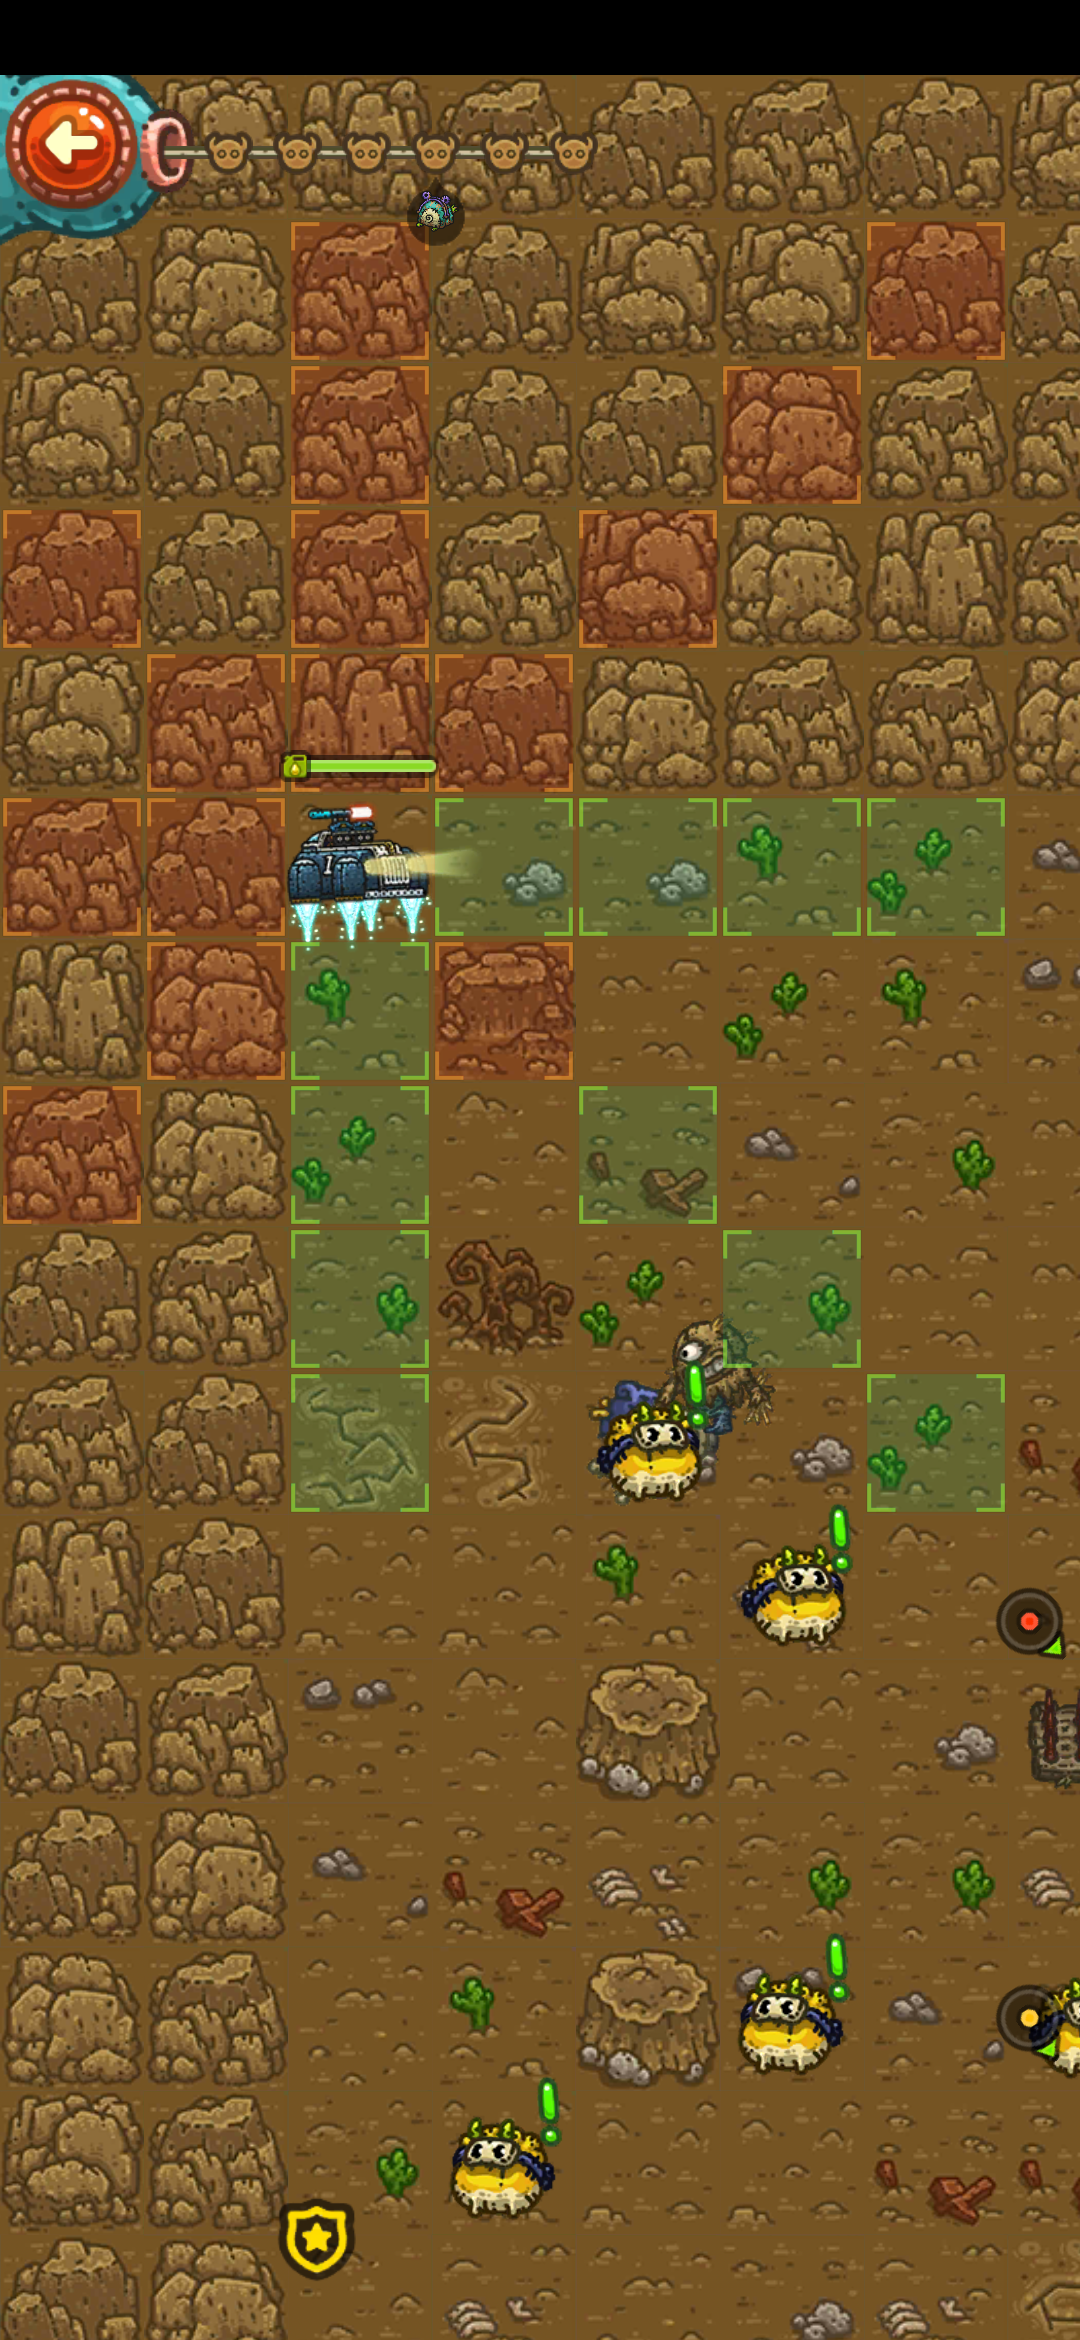
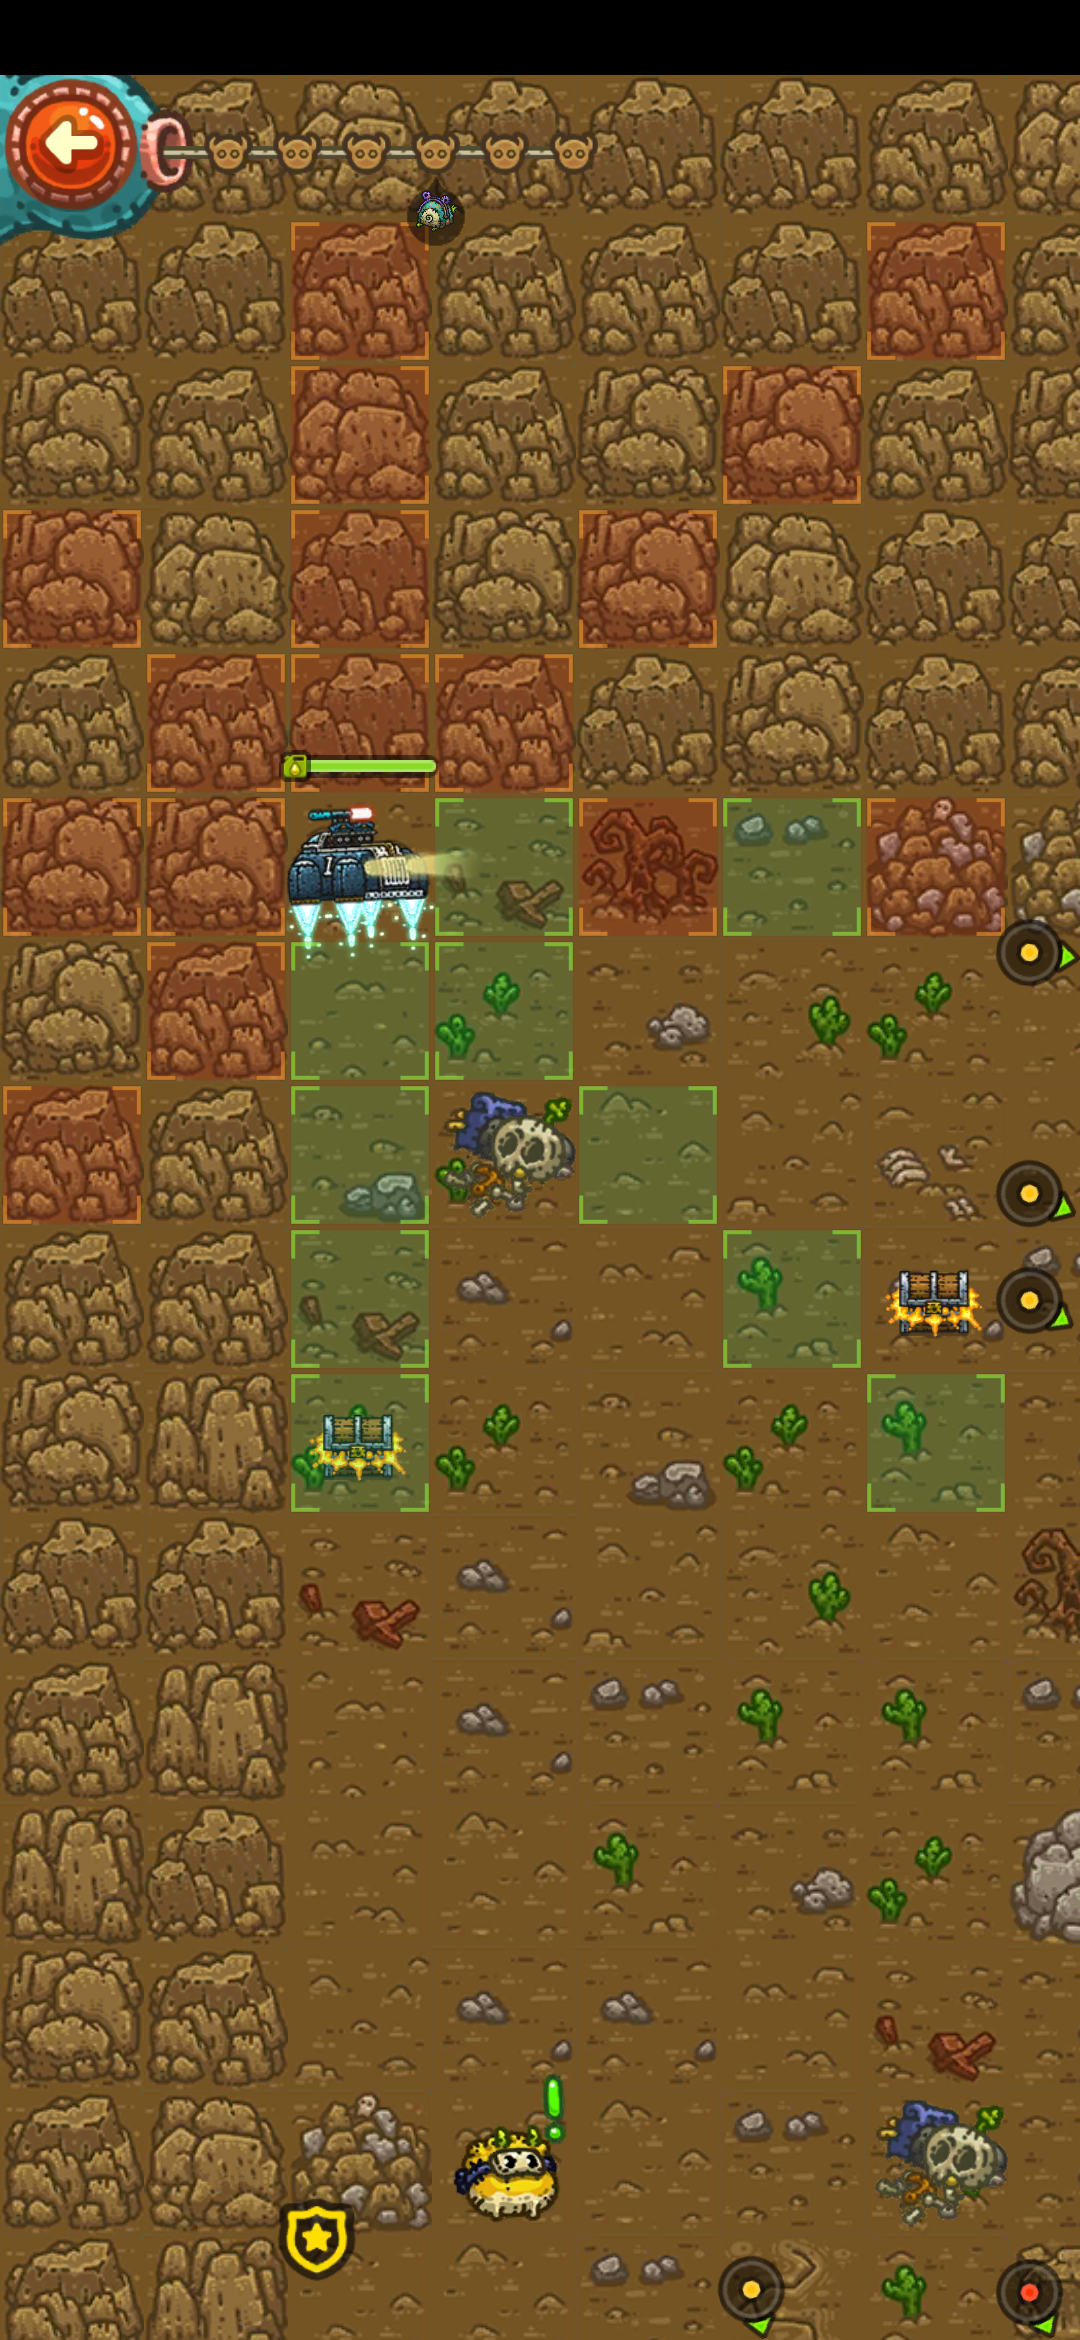
步进到憨憨的位置

diff --git a/Liaoliwang.py b/Liaoliwang.py
@@ -104,44 +104,8 @@ class Liaoliwang:
                 print('force')
             time.sleep(2)
 
-    #
-    # # 自动送酱油
-    # def __page_oil_auto(self):
-    #     png_file = Adb.screen_shot(self.__png_name, self.__path)
-    #     img = cv2.imread(png_file, 0)
-    #     oil_template = cv2.imread('./screenshot/oil_template.png', 0)
-    #     h, w = oil_template.shape[:2]
-    #
-    #     res = cv2.matchTemplate(img, oil_template, cv2.TM_CCOEFF_NORMED)
-    #     threshold = 0.9
-    #     pts = [(0, 0)]
-    #     loc = np.where(res >= threshold)
-    #     for pt in zip(*loc[::-1]):
-    #         like_cnt = 0
-    #         for _pt in pts:
-    #             if _pt[0] - 5 <= pt[0] <= _pt[0] + 5 and _pt[1] - 5 <= pt[1] <= _pt[1] + 5:
-    #                 like_cnt += 1
-    #         if like_cnt == 0:
-    #             pts.append(pt)
-    #
-    #     del (pts[0])
-    #     # print(pts)
-    #     for pt in pts:
-    #         Adb.tap(pt[0] + w / 2, pt[1] + h / 2)
-    #         right_bottom = (pt[0] + w, pt[1] + h)
-    #         cv2.rectangle(img, pt, right_bottom, (0, 0, 255), 2)
-    #
-    # def oil_auto(self):
-    #     for i in range(12):
-    #         self.__page_oil_auto()
-    #         time.sleep(2.5)
-    #         Adb.swipe(540, 2100, 540, 1600, 200)
-    #         time.sleep(2.5)
-
-    def find_hanhan_pos(self):
-        png_file = Adb.screen_shot(self.__png_name, self.__screenshot_path)
-        img = cv2.imread(png_file, 0)
-        # img = cv2.imread('./screenshot/tmp.png', 0)
+    def __find_hanhan_pos(self, img):
+        img_grey = cv2.cvtColor(img, cv2.COLOR_BGR2GRAY)
 
         hanhan = cv2.imread('./template/adventure/hanhan.png', 0)
         hanhan_flip = cv2.flip(hanhan, 1, dst=None)  # 水平镜像
@@ -150,7 +114,7 @@ class Liaoliwang:
         w, h = hanhan.shape[::-1]
         pts = [(0, 0)]
 
-        res = cv2.matchTemplate(img, hanhan, cv2.TM_CCOEFF_NORMED)
+        res = cv2.matchTemplate(img_grey, hanhan, cv2.TM_CCOEFF_NORMED)
         loc = np.where(res >= threshold)
         for pt in zip(*loc[::-1]):
             like_cnt = 0
@@ -159,7 +123,7 @@ class Liaoliwang:
                     like_cnt += 1
             if like_cnt == 0:
                 pts.append(pt)
-        res = cv2.matchTemplate(img, hanhan_flip, cv2.TM_CCOEFF_NORMED)
+        res = cv2.matchTemplate(img_grey, hanhan_flip, cv2.TM_CCOEFF_NORMED)
         loc = np.where(res >= threshold)
         for pt in zip(*loc[::-1]):
             like_cnt = 0
@@ -172,13 +136,56 @@ class Liaoliwang:
         del (pts[0])
         pts_mid = []
         for pt in pts:
-            # right_bottom = (pt[0] + w, pt[1] + h)
-            # cv2.rectangle(img, pt, right_bottom, (0, 0, 255), 2)
             pts_mid.append((pt[0] + w / 2, pt[1] + h / 2))
-
-        # cv2.imwrite('./screenshot/tmp2.png', img)
 
         return pts_mid
 
-    def find_reachable_pos(self):
-        pass
+    def __find_reachable_pos(self, img):
+        hsv = cv2.cvtColor(img, cv2.COLOR_BGR2HSV)
+        lower = np.array([35, 160, 160])
+        upper = np.array([45, 255, 255])
+        mask = cv2.inRange(hsv, lower, upper)
+        res = cv2.bitwise_and(img, img, mask=mask)
+        res_gray = cv2.cvtColor(res, cv2.COLOR_BGR2GRAY)
+
+        ret, thresh = cv2.threshold(res_gray, 127, 255, 0)
+        cnts, hierarchy = cv2.findContours(thresh, cv2.RETR_TREE, cv2.CHAIN_APPROX_SIMPLE)
+        pos = []
+        for cnt in cnts:
+            (x, y), radius = cv2.minEnclosingCircle(cnt)
+            center = (int(x), int(y))
+            radius = int(radius)
+            if 15 < radius < 20:
+                pos.append(center)
+        return pos
+
+    def __find_side_hanhan_pos(self, img):
+        img_grey = cv2.cvtColor(img, cv2.COLOR_BGR2GRAY)
+        circles = cv2.HoughCircles(img_grey, cv2.HOUGH_GRADIENT, 1, 20,
+                                   param1=50, param2=30, minRadius=30, maxRadius=35)
+        pos = []
+        for i in circles[0, :]:
+            pos.append((int(i[0]), int(i[1])))
+        return pos
+
+    def __adventure_one_step(self):
+        png_file = Adb.screen_shot(self.__png_name, self.__screenshot_path)
+        img = cv2.imread(png_file)
+
+        hanhan_pos = self.__find_hanhan_pos(img)
+        if len(hanhan_pos) == 0:
+            hanhan_pos = self.__find_side_hanhan_pos(img)
+        reachable_pos = self.__find_reachable_pos(img)
+
+        near_pos = (0, 0)
+        min = float('inf')
+        for i in reachable_pos:
+            dist = (i[0] - hanhan_pos[0][0]) ** 2 + (i[1] - hanhan_pos[0][1]) ** 2
+            if dist < min:
+                min = dist
+                near_pos = i
+        Adb.tap(near_pos[0], near_pos[1])
+
+    def adventure_auto(self):
+        for i in range(15):
+            self.__adventure_one_step()

diff --git a/main.py b/main.py
@@ -9,10 +9,19 @@ if __name__ == '__main__':
     png_name = 'liao_li_wang'
 
     # Liaoliwang(path, png_name).ad_auto()
-
+    Liaoliwang(path, png_name).adventure_auto()
     # png_file = Adb.screen_shot(png_name, path)
     # img = cv2.imread(png_file, 0)
-
-    img = cv2.imread('./screenshot/tmp.png')
     # img = img[1570:1620, 780:830]
+    #
+    #
+    # img = cv2.imread('./screenshot/tmp.png')
+    # img_gray = cv2.cvtColor(img, cv2.COLOR_BGR2GRAY)
+    #
+    # circles = cv2.HoughCircles(img_gray, cv2.HOUGH_GRADIENT, 1, 20,
+    #                            param1=50, param2=30, minRadius=30, maxRadius=35)
+    #
+    # for i in circles[0, :]:
+    #     print((int(i[0]), int(i[1])))
+    #
     # cv2.imwrite('./screenshot/tmp1.png', img)
